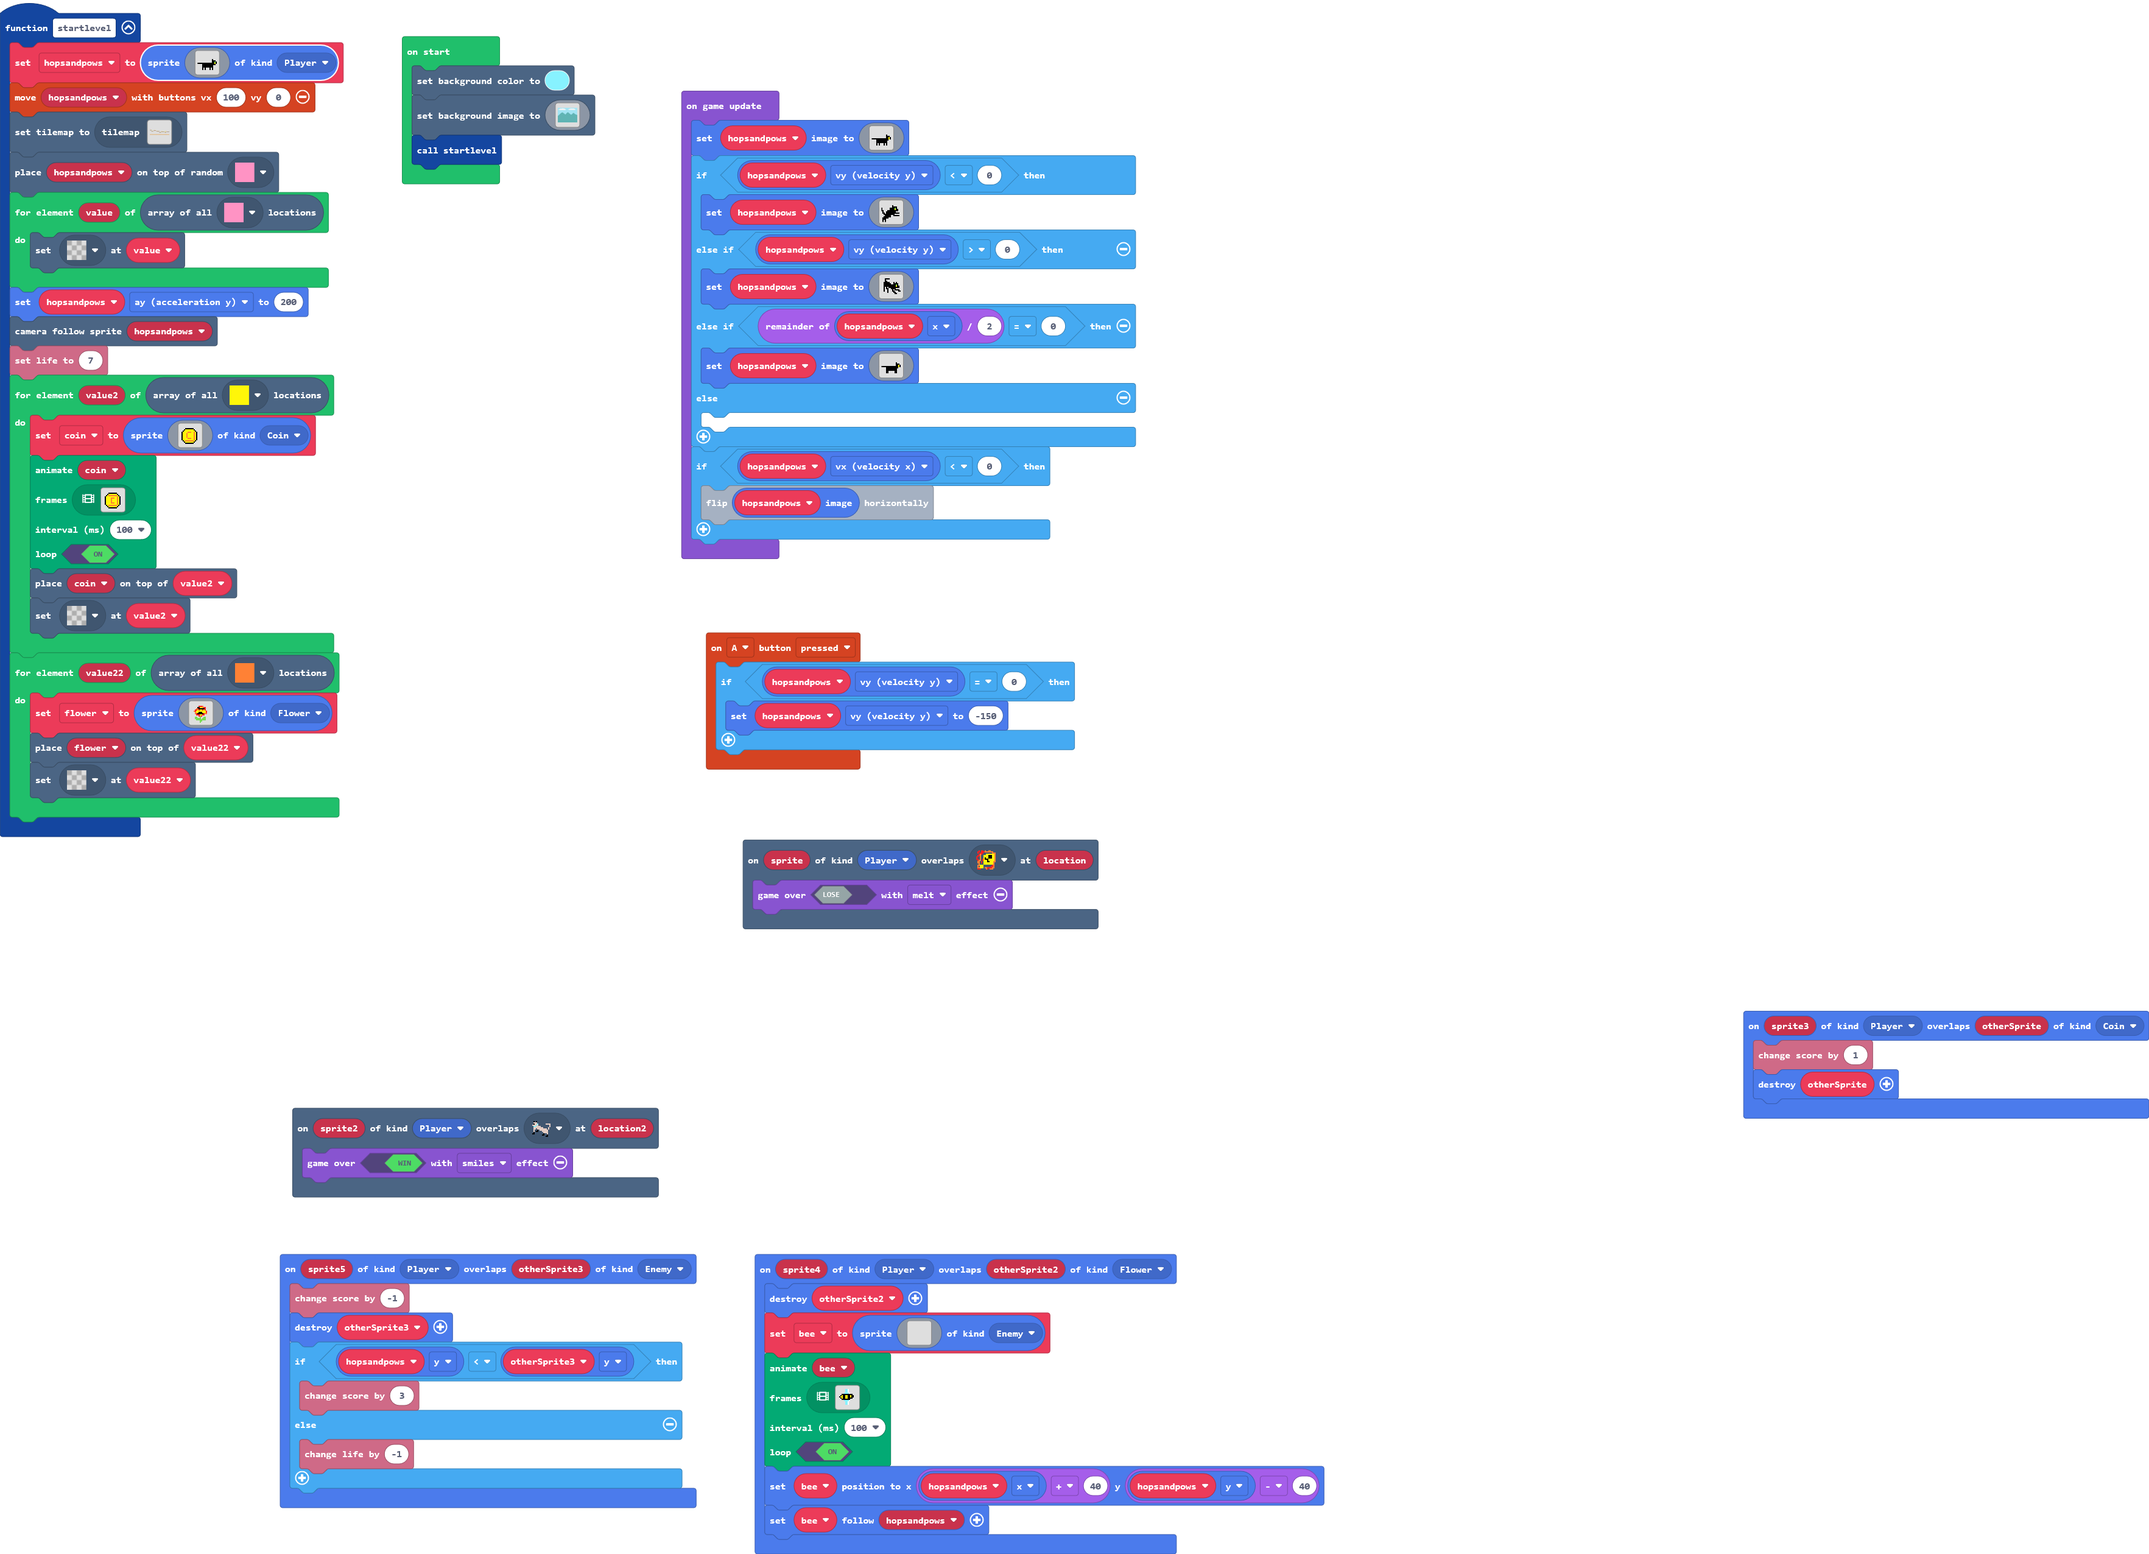
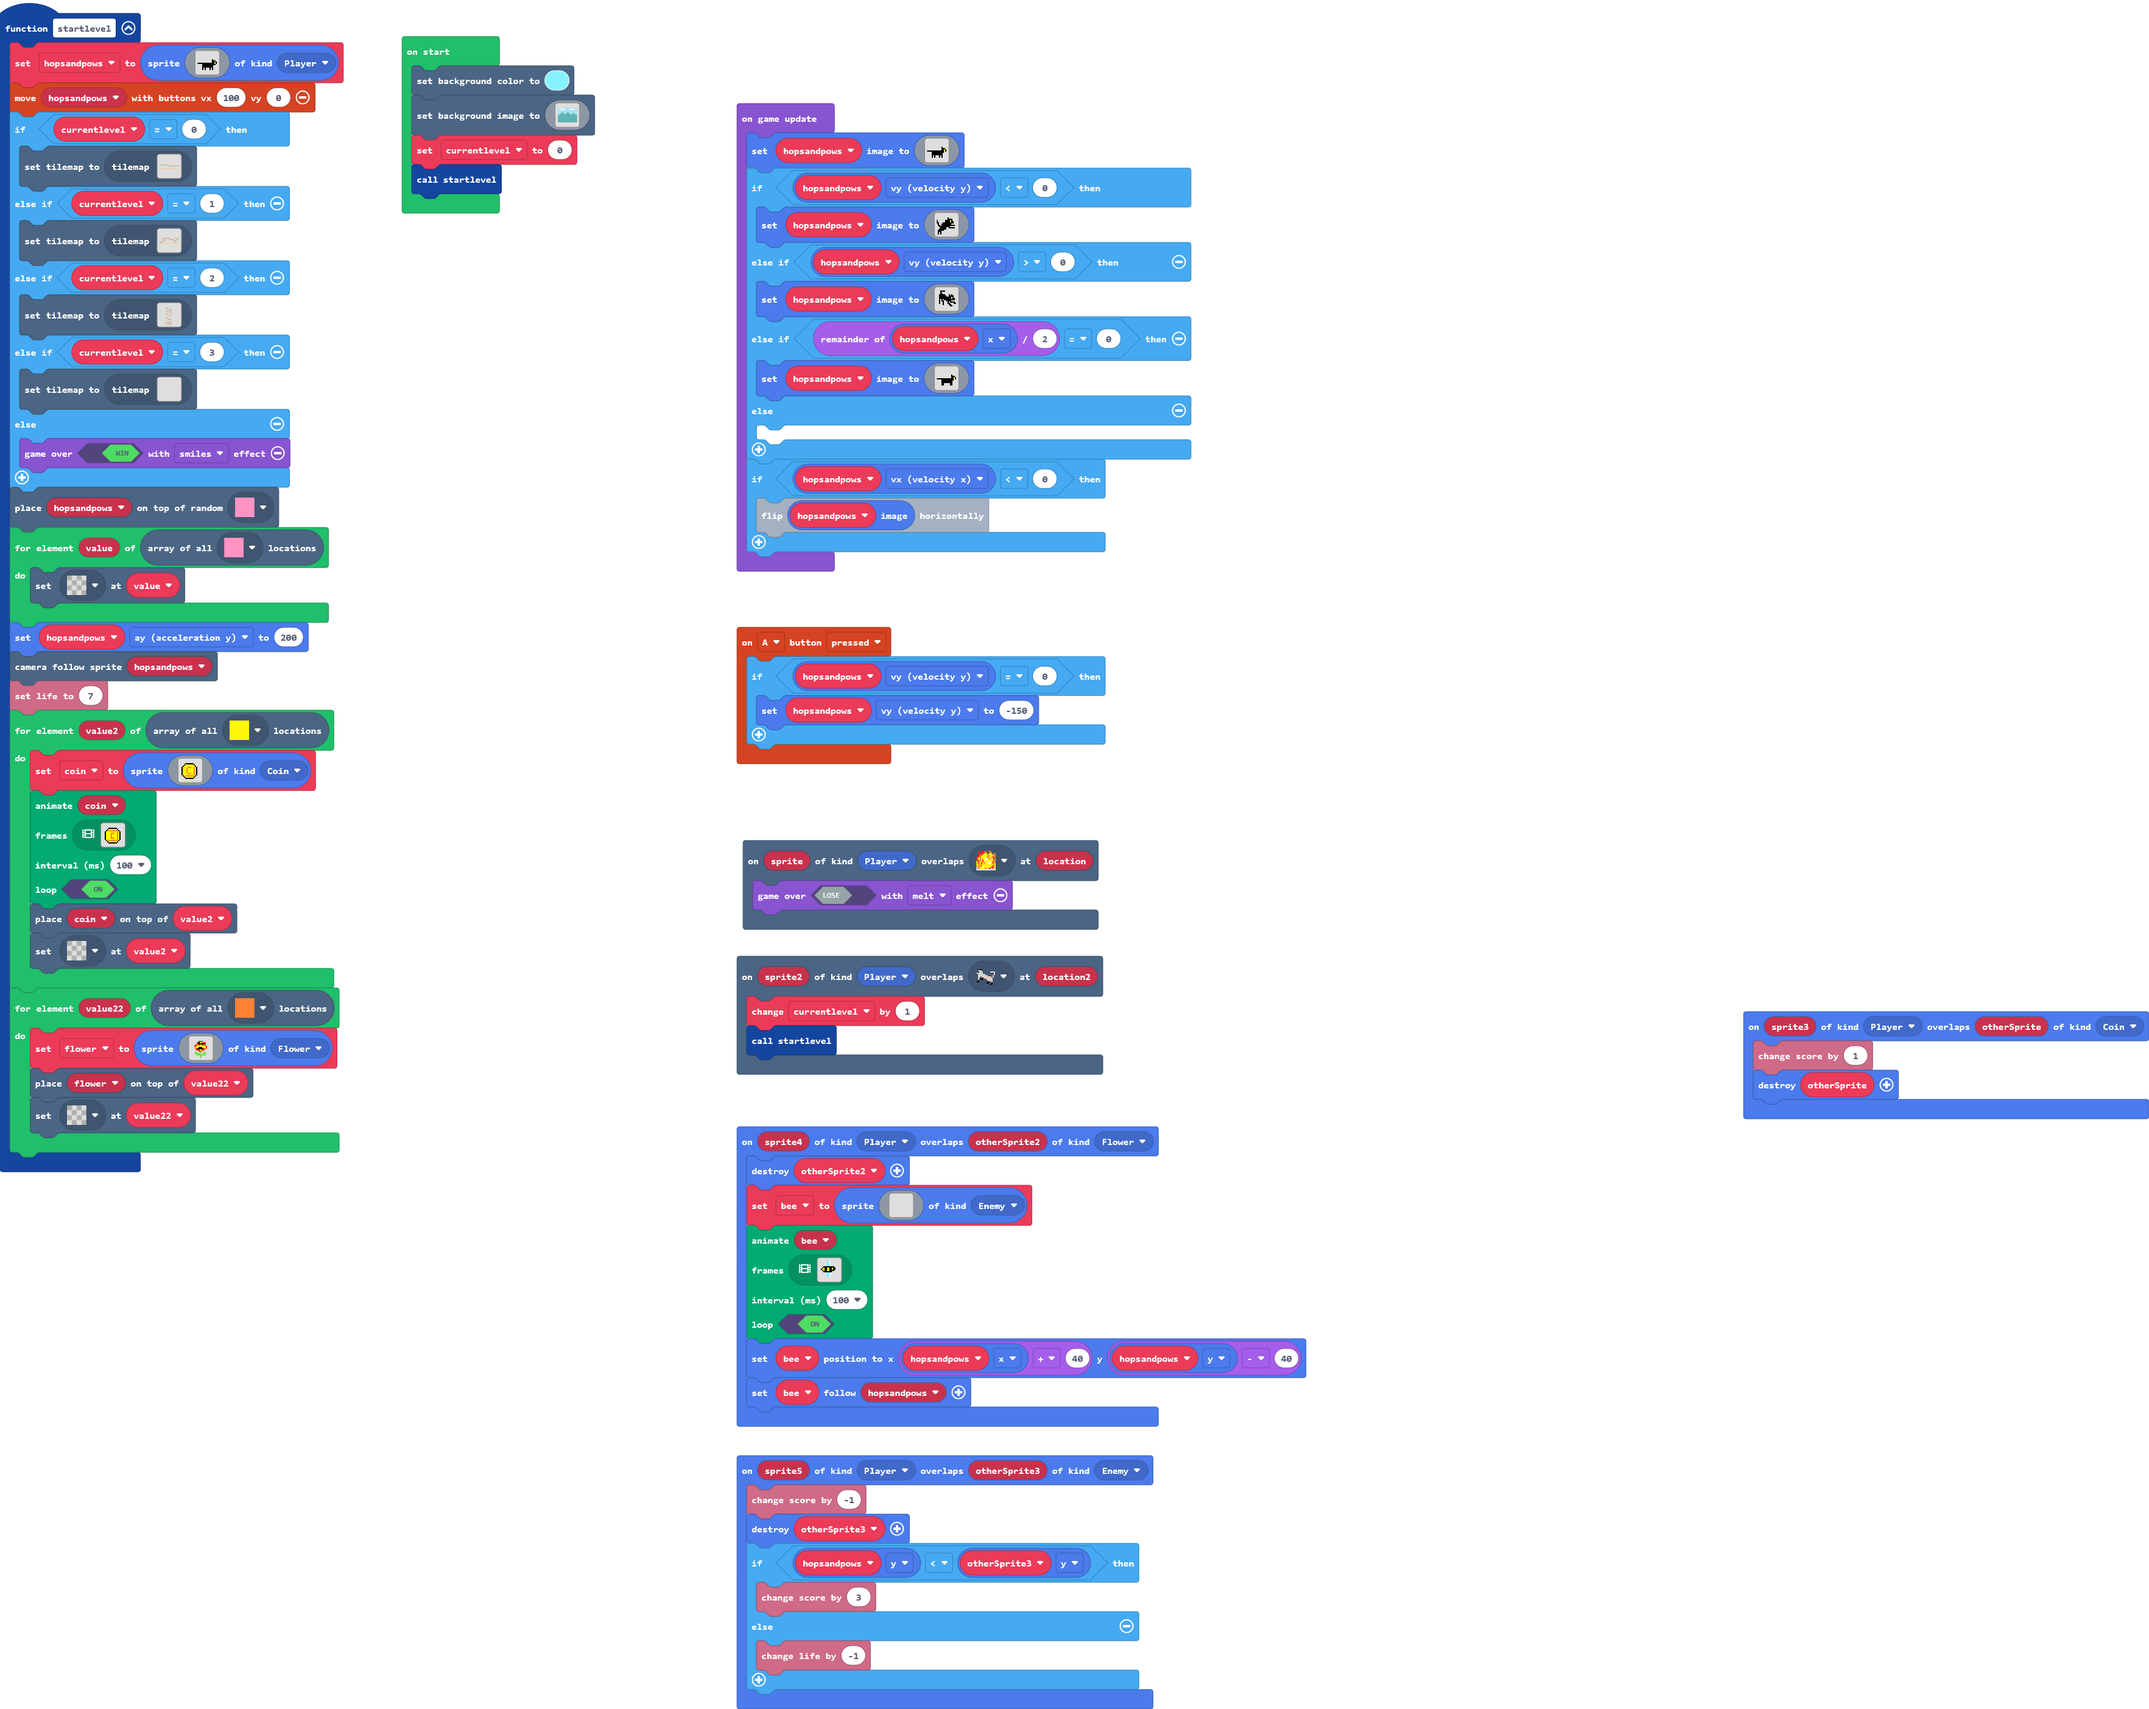
Update main.blocks, main.ts, tilemap.g.jres, tilemap.g.ts

diff --git a/tilemap.g.ts b/tilemap.g.ts
@@ -11,12 +11,51 @@ namespace myTiles {
     //% fixedInstance jres blockIdentity=images._tile
     export const tile3 = image.ofBuffer(hex``);
     //% fixedInstance jres blockIdentity=images._tile
+    export const tile6 = image.ofBuffer(hex``);
+    //% fixedInstance jres blockIdentity=images._tile
+    export const tile7 = image.ofBuffer(hex``);
+    //% fixedInstance jres blockIdentity=images._tile
+    export const tile8 = image.ofBuffer(hex``);
+    //% fixedInstance jres blockIdentity=images._tile
+    export const tile9 = image.ofBuffer(hex``);
+    //% fixedInstance jres blockIdentity=images._tile
+    export const tile11 = image.ofBuffer(hex``);
+    //% fixedInstance jres blockIdentity=images._tile
+    export const tile10 = image.ofBuffer(hex``);
+    //% fixedInstance jres blockIdentity=images._tile
     export const tile2 = image.ofBuffer(hex``);
     //% fixedInstance jres blockIdentity=images._tile
-    export const tile6 = image.ofBuffer(hex``);
+    export const tile12 = image.ofBuffer(hex``);
+    //% fixedInstance jres blockIdentity=images._tile
+    export const tile13 = image.ofBuffer(hex``);
+    //% fixedInstance jres blockIdentity=images._tile
+    export const tile14 = image.ofBuffer(hex``);
+    //% fixedInstance jres blockIdentity=images._tile
+    export const tile15 = image.ofBuffer(hex``);
+    //% fixedInstance jres blockIdentity=images._tile
+    export const tile16 = image.ofBuffer(hex``);
 
     helpers._registerFactory("tilemap", function(name: string) {
         switch(helpers.stringTrim(name)) {
+            case "level5":
+            case "level5":return tiles.createTilemap(hex`1000100000000000000000000000000000000000000000000000000000000000000000000000000000000000000000000000000000000000000000000000000000000000000000000000000000000000000000000000000000000000000000000000000000000000000000000000000000000000000000000000000000000000000000000000000000000000000000000000000000000000000000000000000000000000000000000000000000000000000000000000000000000000000000000000000000000000000000000000000000000000000000000000000000000000000000000000000000000000000000000000000000000000000000000000000000000000`, img`
+. . . . . . . . . . . . . . . . 
+. . . . . . . . . . . . . . . . 
+. . . . . . . . . . . . . . . . 
+. . . . . . . . . . . . . . . . 
+. . . . . . . . . . . . . . . . 
+. . . . . . . . . . . . . . . . 
+. . . . . . . . . . . . . . . . 
+. . . . . . . . . . . . . . . . 
+. . . . . . . . . . . . . . . . 
+. . . . . . . . . . . . . . . . 
+. . . . . . . . . . . . . . . . 
+. . . . . . . . . . . . . . . . 
+. . . . . . . . . . . . . . . . 
+. . . . . . . . . . . . . . . . 
+. . . . . . . . . . . . . . . . 
+. . . . . . . . . . . . . . . . 
+`, [myTiles.transparency16], TileScale.Sixteen);
             case "level1":
             case "level1":return tiles.createTilemap(hex`320010000600000000000000000000000000000000000000000000000000000000000000000000000000000000000000000000000000000000000000000000000000000000000000000000000000000000000000000000000000000000000000000000000000000000000000000000000000000000000000000000000000000000000000000000000000000000000000000000000000000000000000000004000000000000000000000000000000000000000000000000000000000000000000000000000000000000000000010101010100000000000005000004000000000000000000000000000000000000000000000000000000000000000000000000000000000000000000010101010101000000000000000000000000000000000000000000000000000000000000000000000000000000000004000000000000000000000500000400000000000000000000000000000000000400000000000000000000000000000101010101000000000000000001010101010101010000000000050000040000000000040000000500000000000300000000000000000000000000000000000000000000000000000000040001010101010101000004000000010101010101010000000000000000000000000000000000000000000000000000000101000000000000000000010101000000000000000000000000000000000000000000000000000000000000000000010101010000000000000000000000000101000000000000000000000000000000000000000000000000000000000000000000000000000000000000000000000000000000000000000000000000000000000000000000000000000000000000000000000000000000000000000000000000000000000000000000000000000000000000000000000000000000000000000000000000000000000000000000000000000000000000000000000000000000000000000000000000000000000000000000000000000000000000000000000000000000000000000000000000000000000202020202020202020202020202020202020202020202020202020202020202020202020202020202020202020202020202`, img`
 ..................................................
@@ -36,6 +75,97 @@ namespace myTiles {
 ..................................................
 ..................................................
 `, [myTiles.transparency16,myTiles.tile1,myTiles.tile2,myTiles.tile3,myTiles.tile4,myTiles.tile5,myTiles.tile6], TileScale.Sixteen);
+            case "level3":
+            case "level3":return tiles.createTilemap(hex`320010000000000000000004000000000000000000040000000000000000000000000000000000000000000000000000000004040000000000000004000400000000000000000004000000040000000000000000000000000000000000000000000000000000000000000000000000000000000000050000050000000500000000000400000000000000000000000000000000000000000005000000000000030303030000000003030303030303030303000500000000000000040000000000000000000004000003030303000000000000000000050000000000000000000000000303030303030000000004000000000000000000000000000000000000000000000000000003030300040000000000000000000000000000000000000400000000000000000400050000050000000000000000000000000000000000000000000000000000000000000000050000050000000000000000000003030303000000000000000000000000000000050000000000000000000000000000030303030303030303000000000500000000000000000000000000000000000003030303030000000000000000000000000000000000000000000000000400030303030000000000000000000000000000000000000000000000000000000000000000000000000000000000000005000000000000000000000000070000000004000505000000000000000000000000000000000000000000000000000000030301030000000000000000000000000000030303030303000000000000000000000000000000000000000000000000000000000800000000000000000000000000000000000000000000000000000000000000000000000000000000000000000000000000020000000000000000000000010101000000000000000000000000000000000000000000000000000000000000000000000002000000000000000000000008080800000000000000000000000000000000000000000000000000000000000000000000000200000000000000000000000202020606060606060606060606060606060606060606060606060606060606060606060606020606060606060606060606`, img`
+..................................................
+..................................................
+..................................................
+.....2222....2222222222.......................2222
+......................222222......................
+.........222......................................
+...........................................2222...
+...........................222222222..............
+.........22222..........................2222......
+..................................................
+....................................2222..........
+....222222............................2...........
+......................................2...........
+222...................................2...........
+222...................................2...........
+222...................................2...........
+`, [myTiles.transparency16,myTiles.tile8,myTiles.tile9,myTiles.tile1,myTiles.tile4,myTiles.tile5,myTiles.tile2,myTiles.tile6,myTiles.tile10], TileScale.Sixteen);
+            case "level2":
[1 lines of base64/hex data omitted]
+................
+................
+................
+................
+................
+22..............
+................
+................
+..2222..........
+.....2..........
+................
+.....22222..2222
+.........2..2...
+.........2..2...
+................
+................
+222222222..22222
+........2.......
+........2.......
+................
+............2222
+...22222........
+................
+................
+2222............
+................
+..........222222
+................
+....22222.......
+................
+................
+................
+22222...........
+................
+................
+................
+.....222222222..
+................
+................
+..............22
+................
+................
+.......2222222..
+2...............
+2.222222........
+22..............
+................
+........22222222
+........22222222
+................
+`, [myTiles.transparency16,myTiles.tile1,myTiles.tile4,myTiles.tile5,myTiles.tile6,myTiles.tile8,myTiles.tile9,myTiles.tile10,myTiles.tile2,myTiles.tile12,myTiles.tile14,myTiles.tile16], TileScale.Sixteen);
+            case "level4":
[1 lines of base64/hex data omitted]
+............................................................
+............................................................
+............................................................
+............................................................
+............................................................
+............................................................
+............................................................
+............................................................
+............................................................
+............................................................
+............................................................
+............................................................
+............................................................
+............................................................
+............................................................
+............................................................
+`, [myTiles.transparency16], TileScale.Sixteen);
         }
         return null;
     })
@@ -51,10 +181,30 @@ namespace myTiles {
             case "tile5":return tile5;
             case "myTile1":
             case "tile3":return tile3;
-            case "myTile0":
-            case "tile2":return tile2;
             case "myTile4":
             case "tile6":return tile6;
+            case "myTile5":
+            case "tile7":return tile7;
+            case "myTile6":
+            case "tile8":return tile8;
+            case "myTile7":
+            case "tile9":return tile9;
+            case "myTile9":
+            case "tile11":return tile11;
+            case "myTile8":
+            case "tile10":return tile10;
+            case "myTile0":
+            case "tile2":return tile2;
+            case "myTile10":
+            case "tile12":return tile12;
+            case "myTile11":
+            case "tile13":return tile13;
+            case "myTile12":
+            case "tile14":return tile14;
+            case "myTile13":
+            case "tile15":return tile15;
+            case "myTile14":
+            case "tile16":return tile16;
         }
         return null;
     })

diff --git a/main.ts b/main.ts
@@ -134,7 +134,8 @@ sprites.onOverlap(SpriteKind.Player, SpriteKind.Enemy, function (sprite5, otherS
     }
 })
 scene.onOverlapTile(SpriteKind.Player, assets.tile`myTile1`, function (sprite2, location2) {
-    game.over(true, effects.smiles)
+    currentlevel += 1
+    startlevel()
 })
 function startlevel () {
     hopsandpows = sprites.create(img`
@@ -156,7 +157,17 @@ function startlevel () {
         . . . . . . . . . . . . . . . . 
         `, SpriteKind.Player)
     controller.moveSprite(hopsandpows, 100, 0)
-    tiles.setCurrentTilemap(tilemap`level1`)
+    if (currentlevel == 0) {
+        tiles.setCurrentTilemap(tilemap`level1`)
+    } else if (currentlevel == 1) {
+        tiles.setCurrentTilemap(tilemap`level3`)
+    } else if (currentlevel == 2) {
+        tiles.setCurrentTilemap(tilemap`level2`)
+    } else if (currentlevel == 3) {
+        tiles.setCurrentTilemap(tilemap`level4`)
+    } else {
+        game.over(true, effects.smiles)
+    }
     tiles.placeOnRandomTile(hopsandpows, assets.tile`myTile4`)
     for (let value of tiles.getTilesByType(assets.tile`myTile4`)) {
         tiles.setTileAt(value, assets.tile`transparency16`)
@@ -410,6 +421,7 @@ let flower: Sprite = null
 let coin: Sprite = null
 let hopsandpows: Sprite = null
 let bee: Sprite = null
+let currentlevel = 0
 scene.setBackgroundColor(9)
 scene.setBackgroundImage(img`
     9999999999999999999999999999999999999999999999999999999999999999999999999999999999999999999999999999999999999999999999999999999999999999999999999999999999999999
@@ -533,6 +545,7 @@ scene.setBackgroundImage(img`
     6666666666666666666666666666666666666666666666666666666666666666666666666666666666666666666666666666666666666666666666666666666666666666666666666666666666666666
     6666666666666666666666666666666666666666666666666666666666666666666666666666666666666666666666666666666666666666666666666666666666666666666666666666666666666666
     `)
+currentlevel = 0
 startlevel()
 game.onUpdate(function () {
     hopsandpows.setImage(img`
